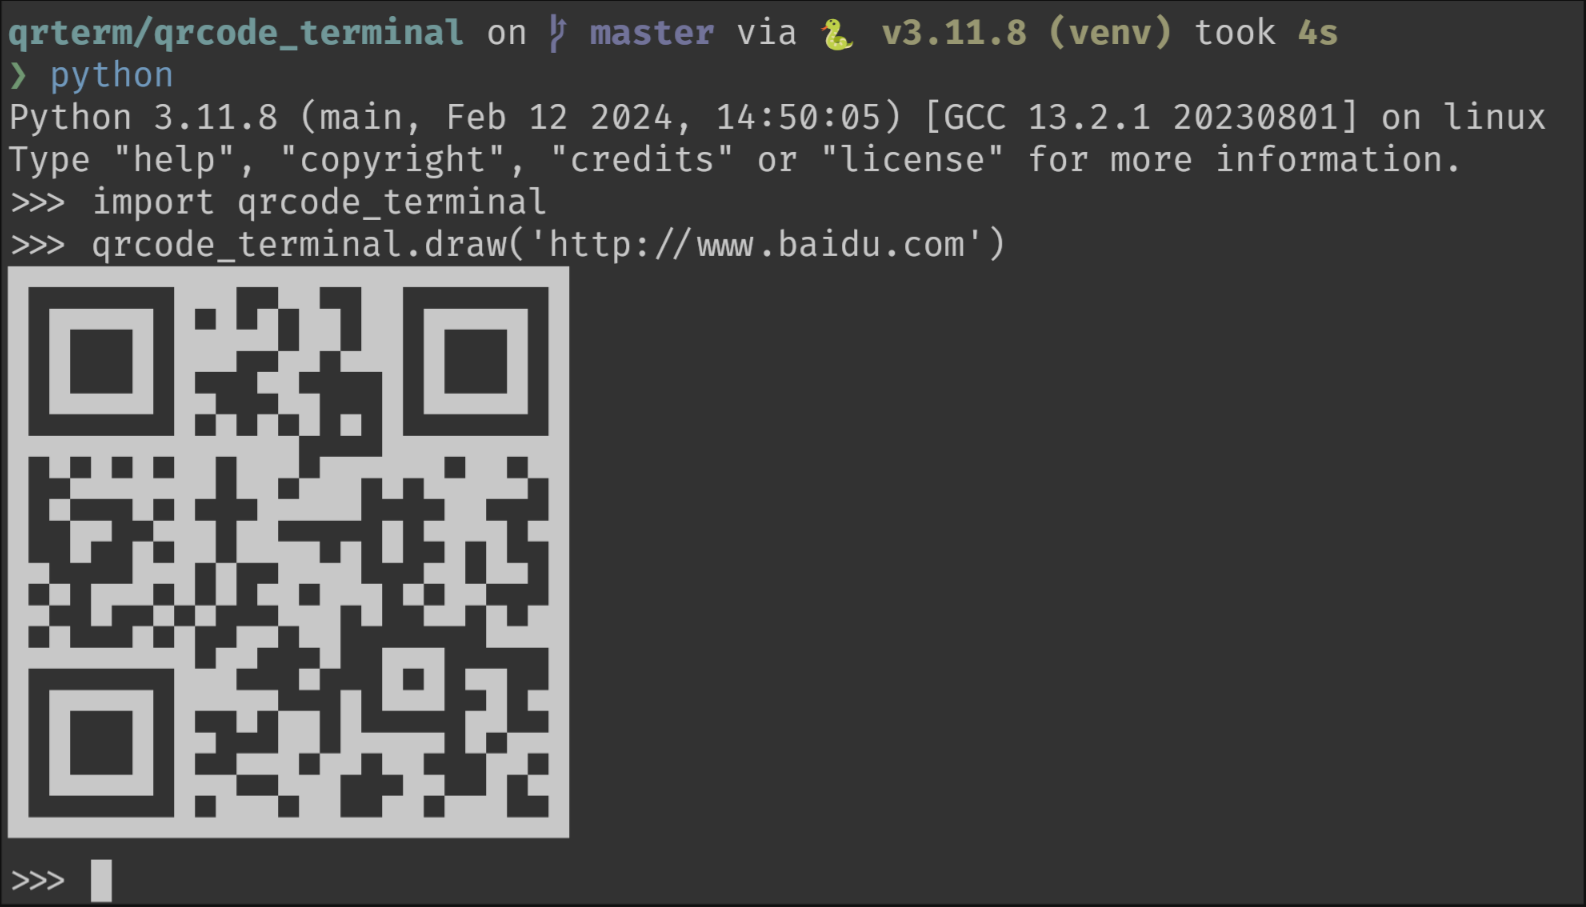
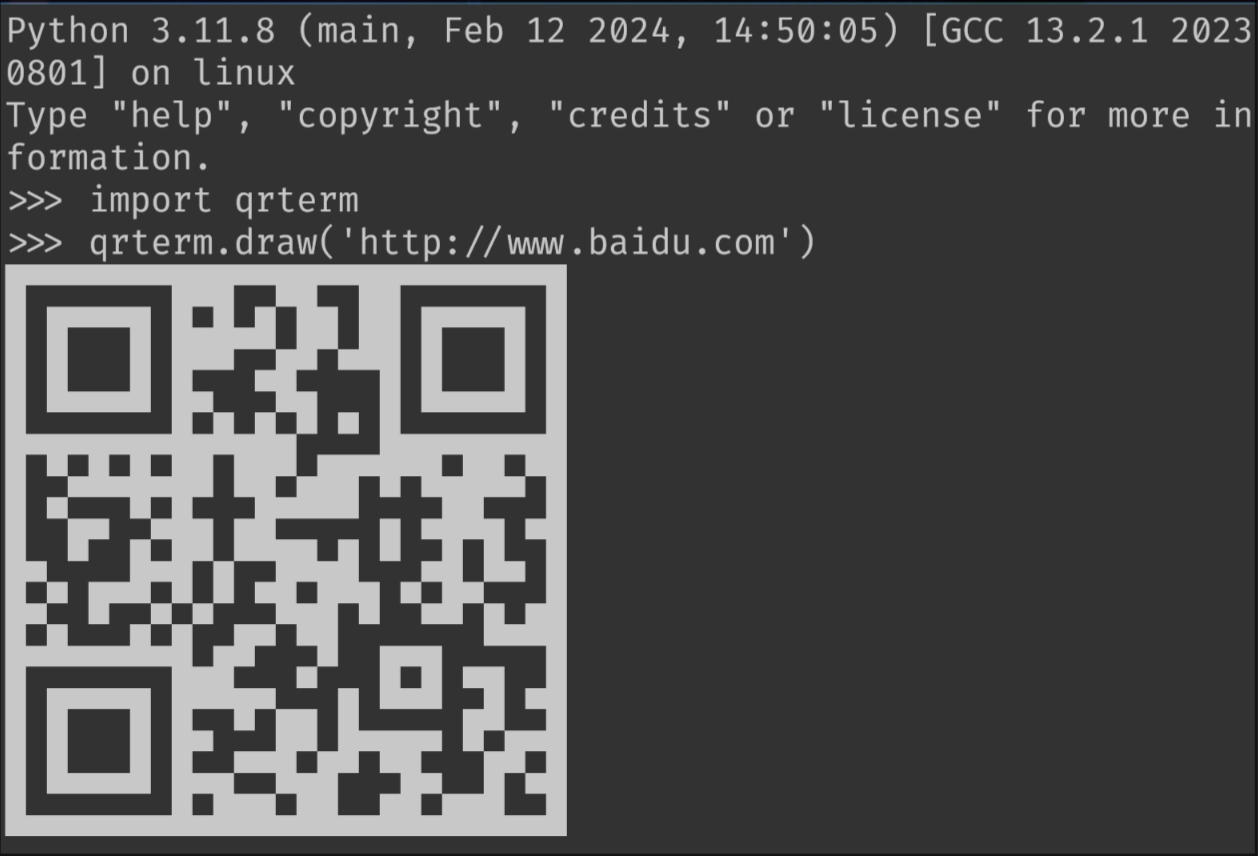
rebrand as qrterm

Changed region(s): [[0.0, 0.0, 1.0, 1.0]]

diff --git a/setup.py b/setup.py
@@ -10,18 +10,18 @@
 from setuptools import setup
 
 setup(
-    name='qrcode-terminal',
+    name='qrterm',
     version='0.8',
     license='MIT',
     author_email='840652591@qq.com',
-    url='https://github.com/alishtory/qrcode-terminal',
+    url='https://github.com/alishtory/qrterm',
     description='Python QRCode Terminal',
     platforms=['any'],
-    py_modules= ['qrcode_terminal'],
-    packages= ['qrcode_terminal'],
+    py_modules= ['qrterm'],
+    packages= ['qrterm'],
     entry_points={
         'console_scripts': [
-            'qrcode-terminal-py= qrcode_terminal.qrcode_terminal:draw_cmd',
+            'qrterm-py= qrterm.qrterm:draw_cmd',
         ],
     },
     install_requires=['Pillow', 'qrcode'],

diff --git a/qrterm/qrterm.py b/qrterm/qrterm.py
@@ -1,12 +1,10 @@
 #!/usr/bin/env python
 # -*- coding:utf-8 -*-
 '''
-@author: ‘wang_pc‘
+@author: 'wang_pc', 'Yihang Liu'
 @site: 
-@software: PyCharm
-@file: qrcode_terminal.py
+@file: qrterm.py
 @time: 2017/2/10 16:38
-@Update: 2018/2/6 21:58
 '''
 import qrcode
 from optparse import OptionParser

diff --git a/example/test.py b/example/test.py
@@ -7,8 +7,8 @@
 @file: test.py
 @time: 2017/2/10 16:38
 '''
-import qrcode_terminal
-qrcode_terminal.draw('https://www.baidu.com')
+import qrterm
+qrterm.draw('https://www.baidu.com')
 
 
 

diff --git a/qrterm/__init__.py b/qrterm/__init__.py
@@ -8,4 +8,4 @@
 @time: 2017/2/10 16:33
 '''
 
-from .qrcode_terminal import *
+from .qrterm import *

diff --git a/README.md b/README.md
@@ -14,6 +14,7 @@ pip install pillow qrcode
 
 ## Install
 Can be installed with pip:
+<!-- TODO -->
 ``` shell
 pip install qrcode-terminal
 ```
@@ -22,22 +23,22 @@ pip install qrcode-terminal
 
 ### As Library
 ```python
-import qrcode_terminal
-qrcode_terminal.draw('http://www.baidu.com')
+import qrterm
+qrterm.draw('http://www.baidu.com')
 ```
 
 ### In Terminal
 ``` shell
-qrcode-terminal-py -d http://www.baidu.com
-echo "http://www.baidu.com" | qrcode-terminal-py
+qrterm-py -d http://www.baidu.com
+echo "http://www.baidu.com" | qrterm-py
 ```
 
 ### Scaling
 Out of the box we use 2 by 1 unicode blocks, you can also opt-in to use a 3 by 2 unicode block to make the QR-code even smaller:
 
 ```
-import qrcode_terminal
-qrcode_terminal.draw('http://www.baidu.com', render=qrcode_terminal.render_3by2)
+import qrterm
+qrterm.draw('http://www.baidu.com', render=qrterm.render_3by2)
 ```
 
 ![Py QrCode](./example/screenshot_3by2.png)
